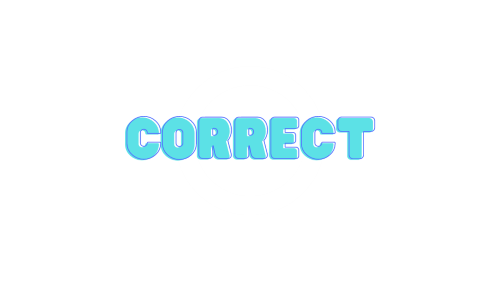
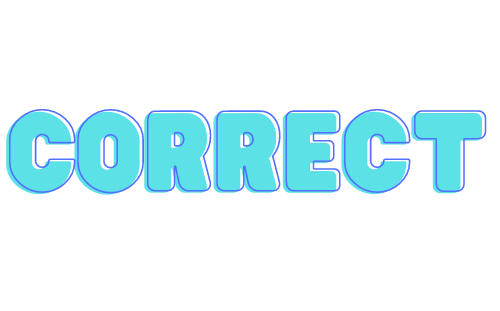
Feat: 정답/오답/시간초과에 따른 결과출력

Changed region(s): [[0.0, 0.3416, 0.99, 0.6263]]

diff --git a/frontend/src/components/Quiz/TodayQuiz.vue b/frontend/src/components/Quiz/TodayQuiz.vue
@@ -12,7 +12,7 @@
       <answer-wrong></answer-wrong>
     </div>
     <div v-if="this.timeoutFlag == true">
-      시간 초과<wrong-answer></wrong-answer>
+      <answer-wrong></answer-wrong>
     </div>
     <!-- 문제 -->
     <div class="quizBox" v-if="this.index < count">
@@ -170,10 +170,10 @@ export default {
         this.correctFlag = false;
         this.timerVisiFlag = false;
       }
-      // console.log("#21# 정답/오답 확인: ", this.correctFlag);
+      console.log("#21# 정답/오답 확인: ", this.correctFlag);
 
       clearInterval(this.timer);
-      // setTimeout(this.nextQuestion, 5000); // 10초 후 다음 문제로 넘어감
+      setTimeout(this.nextQuestion, 5000); // 10초 후 다음 문제로 넘어감
     },
     // [@Method] 다음 문제로 이동
     nextQuestion() {

diff --git a/frontend/src/components/Quiz/element/AnswerCorrect.vue b/frontend/src/components/Quiz/element/AnswerCorrect.vue
@@ -1,12 +1,14 @@
 <template>
-  <div class="answer-result">
+  <div class="answer-correct">
     <img :src="require('@/assets/images/mypage/correct.png')" />
   </div>
 </template>
 
 <style>
-.answer-result img {
-  width: 100%;
-  height: 100%;
+.answer-correct img {
+  width: 70%;
+
+  margin-left: 18%;
+  margin-bottom: 2%;
 }
 </style>

diff --git a/frontend/src/components/Quiz/element/AnswerWrong.vue b/frontend/src/components/Quiz/element/AnswerWrong.vue
@@ -1,7 +1,18 @@
 <template>
-  <div>
+  <div class="answer-wrong">
     <img :src="require('@/assets/images/mypage/wrong.png')" />
   </div>
 </template>
 
-<style></style>
+<style>
+.answer-wrong img {
+  width: 60%;
+
+  margin-left: 20%;
+  margin-bottom: 2%;
+}
+</style>
+
+<!-- <template>
+  <div>오답</div>
+</template> -->

diff --git a/frontend/src/App.vue b/frontend/src/App.vue
@@ -33,6 +33,14 @@ html body {
   height: 100%;
   min-height: 100%;
 }
+
+/* @media (max-width: 750px) {
+  #app {
+    width: 100%;
+    border-left: 0;
+    border-right: 0;
+  }
+} */
 #app {
   background-color: var(--main-col-5);
   max-width: 100%;
